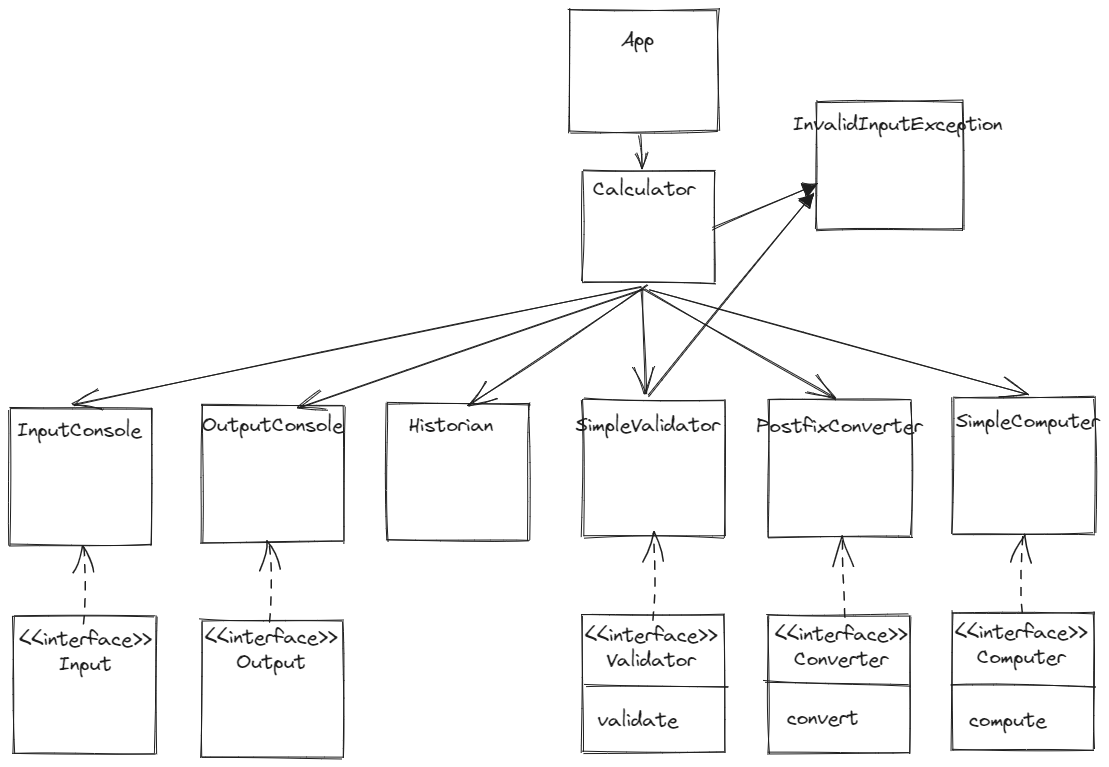
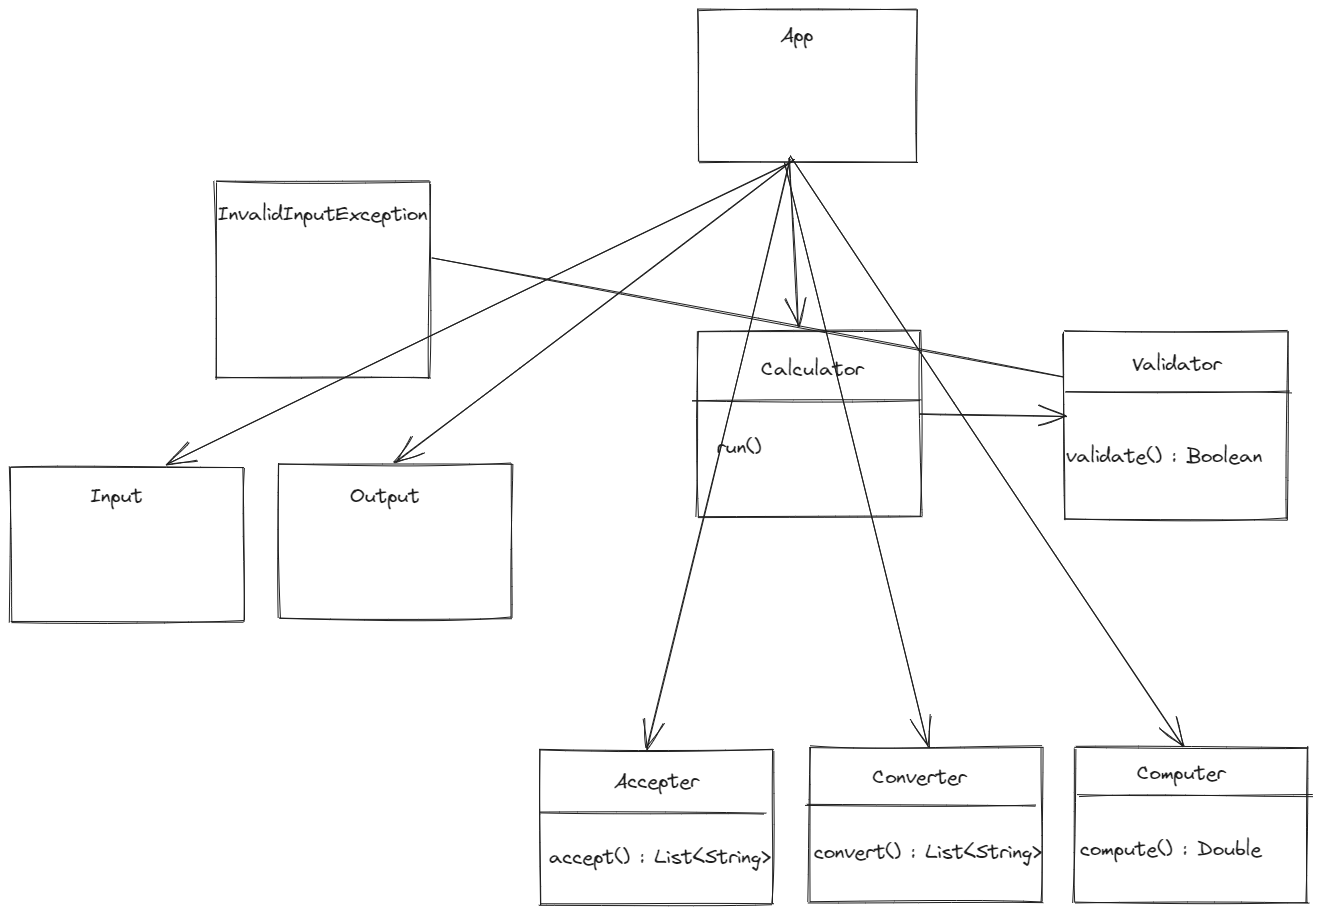
docs: diagram 수정본 추가

diff --git a/src/test/java/engine/computer/ComputerTest.java b/src/test/java/engine/computer/ComputerTest.java
@@ -3,10 +3,7 @@ package engine.computer;
 import com.devcourse.engine.model.accepter.Accepter;
 import com.devcourse.engine.model.computer.Computer;
 import com.devcourse.engine.model.converter.Converter;
-import com.devcourse.engine.model.exception.InvalidInputException;
-import com.devcourse.engine.model.validator.Validator;
 import org.junit.jupiter.api.Assertions;
-import org.junit.jupiter.api.Test;
 import org.junit.jupiter.params.ParameterizedTest;
 import org.junit.jupiter.params.provider.CsvSource;
 

diff --git a/src/test/java/engine/historian/HistoriesTest.java b/src/test/java/engine/historian/HistoriesTest.java
@@ -5,11 +5,8 @@ import org.junit.jupiter.api.Assertions;
 import org.junit.jupiter.api.Test;
 import org.junit.jupiter.params.ParameterizedTest;
 import org.junit.jupiter.params.provider.Arguments;
-import org.junit.jupiter.params.provider.CsvSource;
 import org.junit.jupiter.params.provider.MethodSource;
-import org.junit.jupiter.params.provider.ValueSource;
 
-import java.util.ArrayList;
 import java.util.List;
 import java.util.stream.Stream;
 

diff --git a/src/main/java/com/devcourse/engine/model/unit/Operator.java b/src/main/java/com/devcourse/engine/model/unit/Operator.java
@@ -3,9 +3,7 @@ package com.devcourse.engine.model.unit;
 import com.devcourse.engine.model.exception.InvalidInputException;
 
 import java.util.Arrays;
-import java.util.Optional;
 import java.util.function.BiFunction;
-import java.util.stream.Collectors;
 
 import static com.devcourse.engine.model.exception.InvalidInputException.ZERO_DIVIDE;
 

diff --git a/src/main/java/com/devcourse/engine/model/validator/Validator.java b/src/main/java/com/devcourse/engine/model/validator/Validator.java
@@ -2,8 +2,6 @@ package com.devcourse.engine.model.validator;
 
 import com.devcourse.engine.model.exception.InvalidInputException;
 
-import java.util.ArrayList;
-import java.util.List;
 import java.util.function.Predicate;
 import java.util.regex.Matcher;
 import java.util.regex.Pattern;

diff --git a/src/main/java/com/devcourse/engine/model/histories/Histories.java b/src/main/java/com/devcourse/engine/model/histories/Histories.java
@@ -3,8 +3,6 @@ package com.devcourse.engine.model.histories;
 import java.util.ArrayList;
 import java.util.HashMap;
 import java.util.List;
-import java.util.stream.Collectors;
-import java.util.stream.Stream;
 
 public class Histories {
 

diff --git a/src/main/java/com/devcourse/engine/model/converter/Converter.java b/src/main/java/com/devcourse/engine/model/converter/Converter.java
@@ -1,6 +1,5 @@
 package com.devcourse.engine.model.converter;
 
-import com.devcourse.engine.model.exception.InvalidInputException;
 import com.devcourse.engine.model.unit.Operator;
 
 import java.util.ArrayList;
